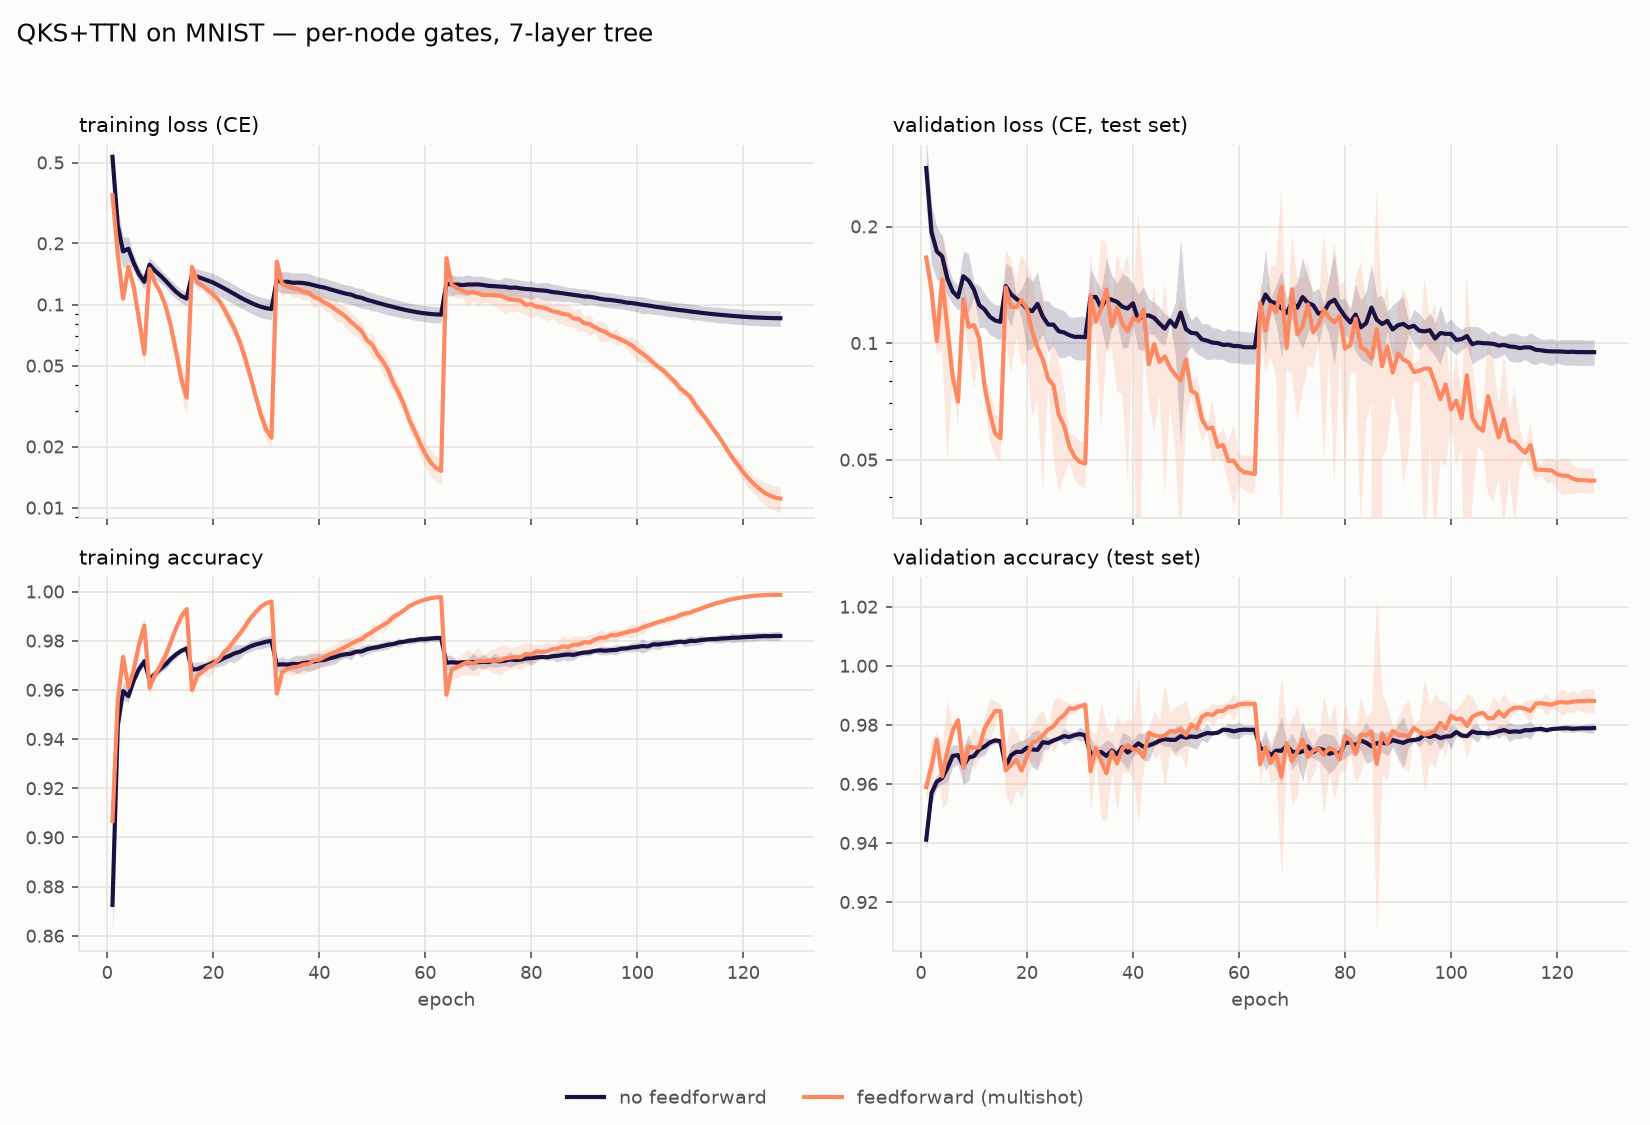
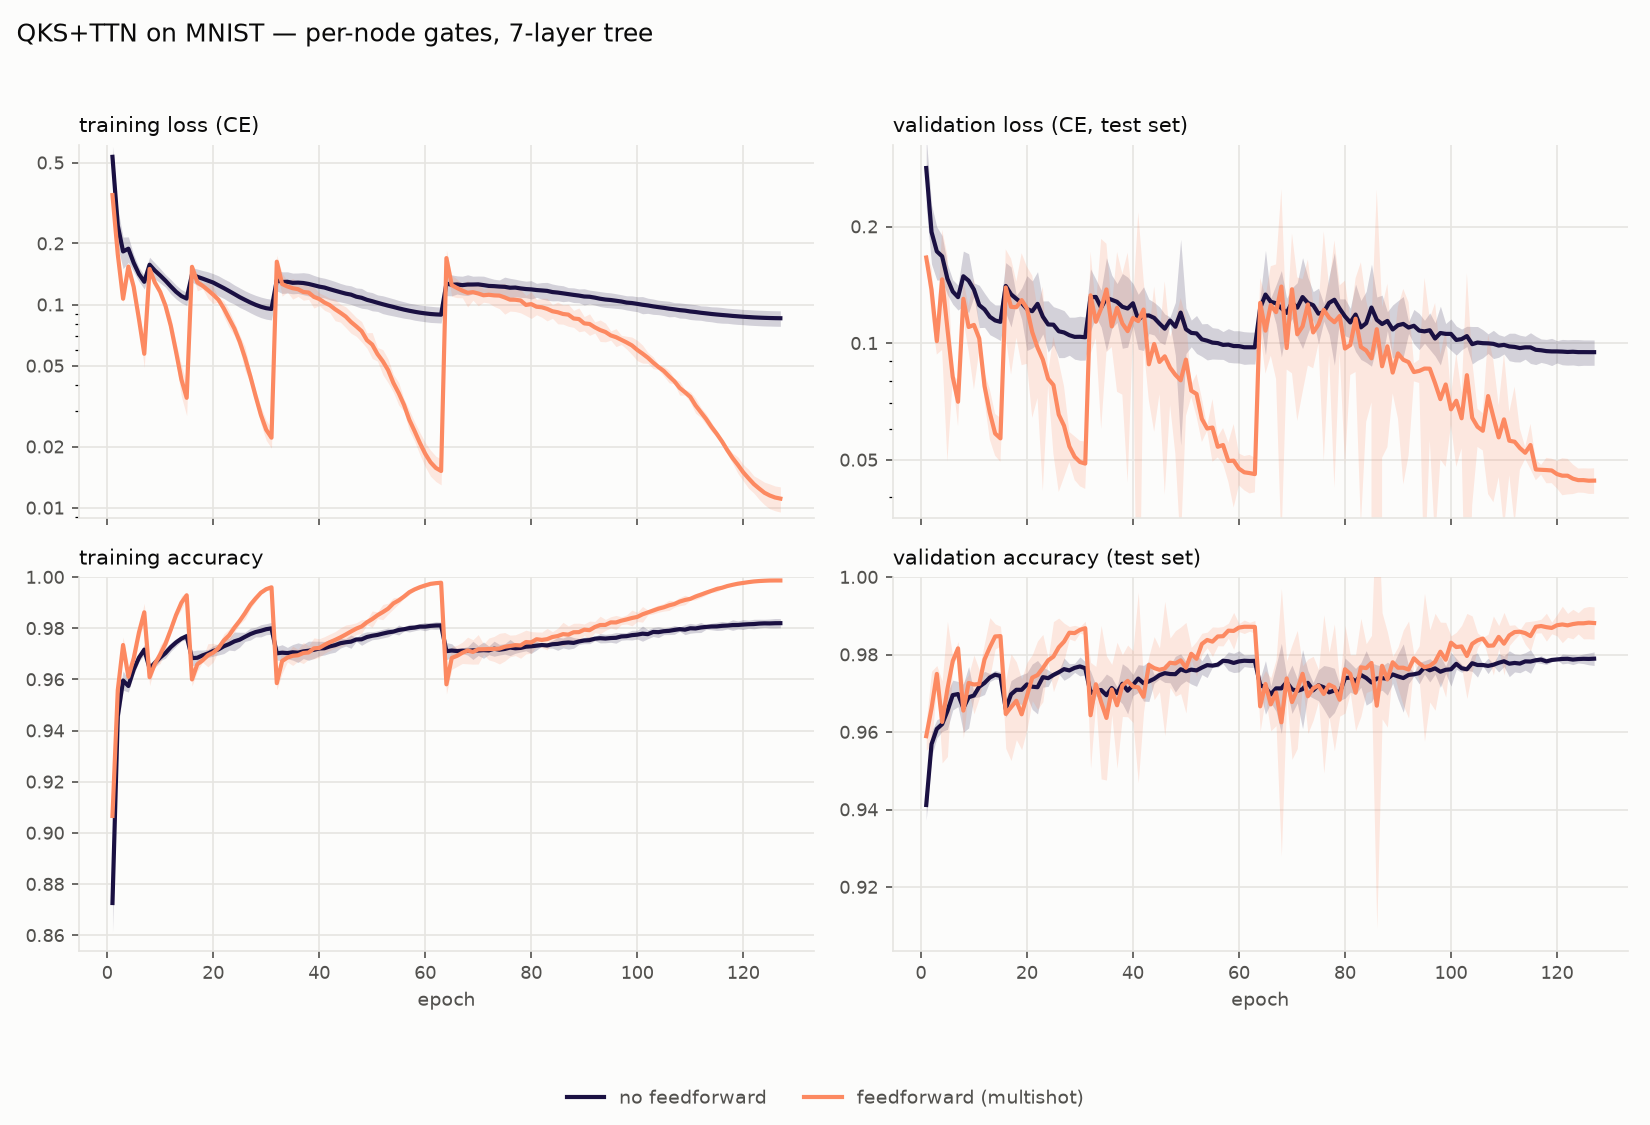
Cap accuracy axes at 1.0

diff --git a/qks-tn-library/analyze_ff_runs.py b/qks-tn-library/analyze_ff_runs.py
@@ -285,6 +285,9 @@ def plot_curves(groups, out_prefix, facet_name, configs):
         for side in ("left", "bottom"):
             ax.spines[side].set_color(grid)
         ax.tick_params(colors=ink2, labelsize=8.5)
+        if "acc" in key:
+            lo, hi = ax.get_ylim()
+            ax.set_ylim(lo, min(hi, 1.0))  # accuracy cannot exceed 1; don't let CI bands imply it
         if "loss" in key:
             ax.set_yscale("log")
             if np.isfinite(mean_lo):
